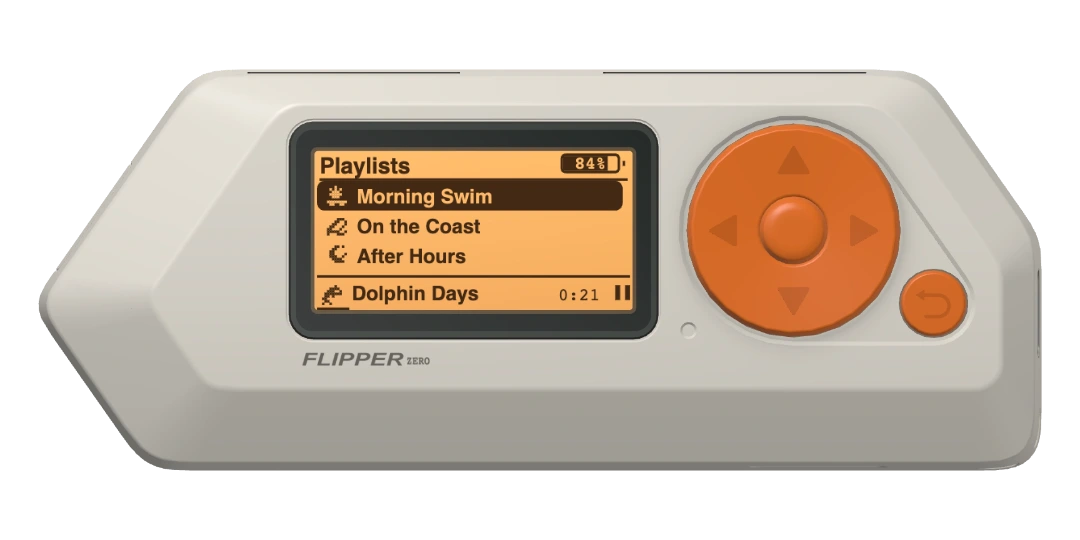
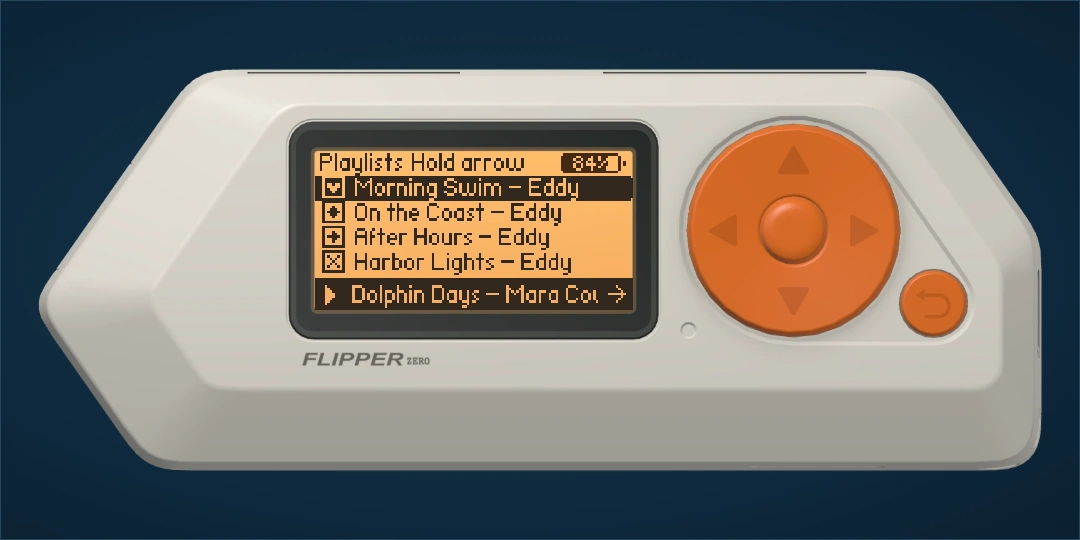
Share the native battery and update the Spotify playlist screenshot

diff --git a/demo/spotify-preview.js b/demo/spotify-preview.js
@@ -4,8 +4,8 @@ import {text, textWidth} from './lcd.js';
 const pageSize=4;
 const now=()=>performance.now();
 const clock=seconds=>Math.floor(seconds/60)+':'+String(Math.floor(seconds%60)).padStart(2,'0');
-const entry=(action,label,icon,value)=>({action,label,icon,value});
-const songEntry=id=>entry('song',songs[id].title,songs[id].art,id);
+const entry=(action,label,value)=>({action,label,value});
+const songEntry=id=>entry('song',songs[id].title,id);
 const view=(kind,title,value)=>({kind,title,value,row:0});
 const current=s=>s.views.at(-1);
 const open=(s,kind,title,value)=>s.views.push(view(kind,title,value));
@@ -13,7 +13,7 @@ const directions=['up','down','left','right'];
 const directionLabels={up:'↑ Up',right:'→ Right',down:'↓ Down',left:'← Left'};
 const presetStorage='eddy-spotify-demo-presets-v1';
 
-const likedSongs={id:'liked-songs',name:'Liked Songs',art:'heart',tracks:songs.map((_,i)=>i)};
+const likedSongs={id:'liked-songs',name:'Liked Songs',tracks:songs.map((_,i)=>i)};
 function presetOptions(s) { return [likedSongs,...s.playlists]; }
 
 function readPresets(playlists) {
@@ -40,7 +40,6 @@ function playPreset(s,dir) {
   const [first,...rest]=playlist.tracks;
   s.previous.push(s.track); s.queue=rest.map(id=>({id})); play(s,first);
   openSpotifyPlayer(s);
-
 }
 
 export function openSpotifyDemo(session,{persistPresets=true}={}) {
@@ -80,21 +79,21 @@ const albumTracks=name=>songs.flatMap((song,id)=>song.album===name?[id]:[]);
 function menu(s) {
   const v=current(s);
   switch(v.kind) {
-    case 'home': return [entry('playlists','Playlists','playlist'),entry('liked','Liked Songs','heart'),entry('queue','Queue','queue'),
-      entry('albums','Albums','album'),entry('player','Now playing','tracks'),entry('presets','Presets','playlist'),entry('setup','Sign in','tracks')];
-    case 'playlists': case 'destinations': return s.playlists.map((p,i)=>entry(v.kind==='playlists'?'collection':'save',p.name,p.art,i));
-    case 'collection': return [entry('browseTracks','Browse tracks','playlist'),entry('playCollection','Play playlist','tracks')];
+    case 'home': return [entry('playlists','Playlists'),entry('liked','Liked Songs'),entry('queue','Queue'),
+      entry('albums','Albums'),entry('player','Now playing'),entry('presets','Presets'),entry('setup','Sign in')];
+    case 'playlists': case 'destinations': return s.playlists.map((p,i)=>entry(v.kind==='playlists'?'collection':'save',p.name,i));
+    case 'collection': return [entry('browseTracks','Browse tracks'),entry('playCollection','Play playlist')];
     case 'playlist': return s.playlists[v.value].tracks.map(songEntry);
     case 'queue': return s.queue.map(item=>songEntry(item.id));
     case 'liked': return songs.map((song,i)=>songEntry(i));
-    case 'albums': return [...new Set(songs.map(song=>song.album))].map(name=>entry('albumMenu',name,songs.find(song=>song.album===name).art,name));
-    case 'albumMenu': return [entry('album','Browse tracks','album',v.value),entry('playAlbum','Play album','tracks',v.value)];
+    case 'albums': return [...new Set(songs.map(song=>song.album))].map(name=>entry('albumMenu',name,name));
+    case 'albumMenu': return [entry('album','Browse tracks',v.value),entry('playAlbum','Play album',v.value)];
     case 'album': return albumTracks(v.value).map(songEntry);
-    case 'presets': return directions.map(dir=>entry('presetSlot',presetLabel(s,dir),'playlist',dir));
+    case 'presets': return directions.map(dir=>entry('presetSlot',presetLabel(s,dir),dir));
     case 'presetSlot': return [
-      entry('choosePreset','Choose playlist','playlist'),entry('assignLiked','Liked Songs','heart'),entry('clearPreset','Clear preset','playlist')];
-    case 'choosePreset': return s.playlists.map(p=>entry('assignPlaylist',p.name,p.art,p));
-    case 'song': return [entry('play','Play now','tracks'),entry('enqueue','Add to queue','queue'),entry('destinations','Add to playlist','playlist')];
+      entry('choosePreset','Choose playlist'),entry('assignLiked','Liked Songs'),entry('clearPreset','Clear preset')];
+    case 'choosePreset': return s.playlists.map(p=>entry('assignPlaylist',p.name,p));
+    case 'song': return [entry('play','Play now'),entry('enqueue','Add to queue'),entry('destinations','Add to playlist')];
     default: return [];
   }
 }
@@ -163,7 +162,6 @@ function highlightedCollection(s) {
 
 export function spotifyKey(s,key) {
   const v=current(s);
-  s.notice='';
   s.scrollStarted=now();
   if(s.missingPreset) {
     if(key==='ok' || key==='back') s.missingPreset=false;

diff --git a/demo/lcd.js b/demo/lcd.js
@@ -112,3 +112,59 @@ export function submenu(ctx, title, labels, selected = 0) {
   for (let y=16;y<64;y+=2) ctx.fillRect(126,y,1,1);
   if (labels.length) ctx.fillRect(125,16+Math.floor(48*selected/labels.length),3,Math.max(1,Math.floor(48/labels.length)));
 }
+
+// u8g2 draws the four corners with its integer midpoint circle algorithm.
+export function rounded(ctx, x, y, width, height, radius, solid = false) {
+  const rows = Array.from({length:height}, () => new Set());
+  const point = (dx,dy) => {
+    for (const [a,b] of [[dx,dy],[dy,dx]]) {
+      for (const row of [radius-b,height-1-radius+b]) {
+        rows[row].add(radius-a);
+        rows[row].add(width-1-radius+a);
+      }
+    }
+  };
+  let dx=0, dy=radius, error=1-radius;
+  point(dx,dy);
+  while (dx<dy) {
+    if (error>=0) { dy--; error-=2*dy; }
+    dx++;
+    error+=2*dx+1;
+    point(dx,dy);
+  }
+  for (let i=0;i<height;i++) {
+    if (i>=radius && i<height-radius) { rows[i].add(0); rows[i].add(width-1); }
+    if (i===0 || i===height-1) for(let col=radius;col<width-radius;col++) rows[i].add(col);
+    if (solid) {
+      const left=Math.min(...rows[i]), right=Math.max(...rows[i]);
+      ctx.fillRect(x+left,y+i,right-left+1,1);
+    } else {
+      for (const col of rows[i]) ctx.fillRect(x+col,y+i,1,1);
+    }
+  }
+}
+
+export function drawBattery(ctx, charging = false, y = 1, charge = 84) {
+  ctx.save();
+  ctx.fillStyle = '#432a14';
+  rounded(ctx,99,y,24,8,2);
+  ctx.fillRect(124,y+3,1,2);
+  ctx.fillRect(100,y+1,Math.round(22*charge/100),6);
+  ctx.globalCompositeOperation='xor';
+  text(ctx,charge+'%',111,y+7,'tiny','center');
+  ctx.globalCompositeOperation='source-over';
+  if (charging) {
+    for (const [dx,dy] of [[3,0],[2,1],[1,2],[1,3],[0,4],[1,4],[2,4],[3,4],[2,5],[2,6],[1,7]]) {
+      ctx.fillRect(94+dx,y+dy,1,1);
+    }
+  }
+  ctx.restore();
+}
+
+// gui_redraw_fullscreen_battery leaves an occupied corner to the current view.
+export function overlayBattery(ctx) {
+  const region=ctx.getImageData(94,1,31,8).data;
+  for(let i=3;i<region.length;i+=4) if(region[i]) return;
+  drawBattery(ctx);
+}
+

diff --git a/demo/spotify-demo-library.js b/demo/spotify-demo-library.js
@@ -1,19 +1,19 @@
-// Original songs and artwork for the local Flipper preview.
+// Original songs and playlists for the local Flipper preview.
 export const songs = [
-  {title:'Dolphin Days', artist:'Mara Cove', album:'Open Water', art:'dolphin', seconds:208},
-  {title:'Low Tide', artist:'Tidepool Club', album:'Breakwater', art:'wave', seconds:174},
-  {title:'High Tide', artist:'Tidepool Club', album:'Breakwater', art:'wave', seconds:195},
-  {title:'Night Ferry', artist:'June Harbor', album:'Blue Hour', art:'moon', seconds:221},
-  {title:'Sea Glass', artist:'Mara Cove', album:'Open Water', art:'dolphin', seconds:168},
-  {title:'First Light', artist:'June Harbor', album:'Blue Hour', art:'sun', seconds:189},
+  {title:'Dolphin Days', artist:'Mara Cove', album:'Open Water', seconds:208},
+  {title:'Low Tide', artist:'Tidepool Club', album:'Breakwater', seconds:174},
+  {title:'High Tide', artist:'Tidepool Club', album:'Breakwater', seconds:195},
+  {title:'Night Ferry', artist:'June Harbor', album:'Blue Hour', seconds:221},
+  {title:'Sea Glass', artist:'Mara Cove', album:'Open Water', seconds:168},
+  {title:'First Light', artist:'June Harbor', album:'Blue Hour', seconds:189},
 ];
 
 export function samplePlaylists() {
   return [
-    {id:'morning-swim',name:'Morning Swim', art:'sun', tracks:[0,2,5]},
-    {id:'on-the-coast',name:'On the Coast', art:'wave', tracks:[1,4]},
-    {id:'after-hours',name:'After Hours', art:'moon', tracks:[3,1]},
-    {id:'harbor-lights',name:'Harbor Lights', art:'dolphin', tracks:[4,3,0]},
+    {id:'morning-swim',name:'Morning Swim', tracks:[0,2,5]},
+    {id:'on-the-coast',name:'On the Coast', tracks:[1,4]},
+    {id:'after-hours',name:'After Hours', tracks:[3,1]},
+    {id:'harbor-lights',name:'Harbor Lights', tracks:[4,3,0]},
   ];
 }
 

diff --git a/demo/demo.js b/demo/demo.js
@@ -1,4 +1,5 @@
 import {drawSpotify, openSpotifyDemo, openSpotifyPlayer, spotifyHit, spotifyKey, spotifyStatus} from './spotify-preview.js';
+import {overlayBattery} from './lcd.js';
 import {spotifyTourSteps, startSpotifyTour} from './spotify-tour.js';
 
 const params = new URLSearchParams(location.search);
@@ -26,7 +27,9 @@ function draw() {
   context.clearRect(0, 0, 128, 64);
   context.fillStyle = context.strokeStyle = '#32291e';
   context.imageSmoothingEnabled = false;
-  if (drawSpotify(context, session())) redrawTimer = setTimeout(draw, 70);
+  const animate = drawSpotify(context, session());
+  overlayBattery(context);
+  if (animate) redrawTimer = setTimeout(draw, 70);
 }
 
 function update() {
